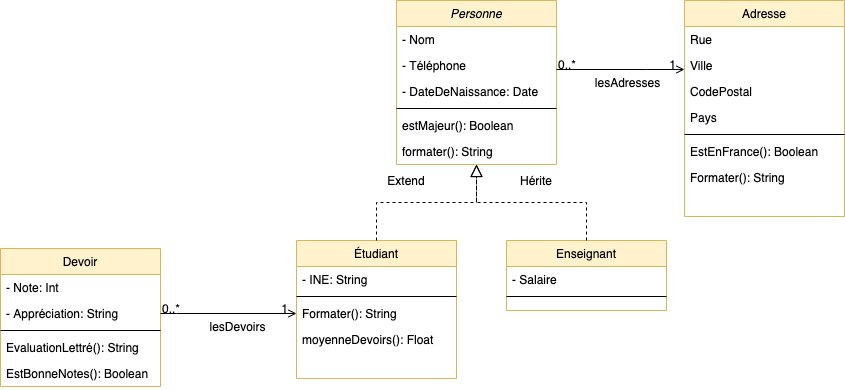
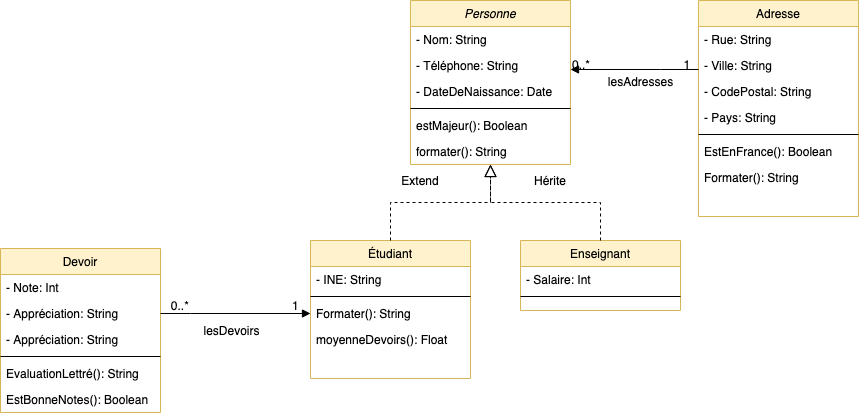
Update UML & description

Changed region(s): [[0.4615, 0.0, 1.0, 0.5231], [0.0, 0.5538, 0.5538, 1.0], [0.5846, 0.5538, 0.8, 0.7692]]

diff --git a/cheatsheets/poo/README.md b/cheatsheets/poo/README.md
@@ -259,6 +259,14 @@ Permet de regrouper des listes d'objets.
 
 ![Représentation UML](./res/collections-uml.png)
 
+En modélisation, la fleche signife un lien entre les deux classes. En l'occurence, dans le cas des collections nous aurons :
+
+- Le nom « de la collection » qui va contenir les objets.
+- Le nombre minimum & maximum.
+- Exemple, **1** étudiant possède plusieurs devoir.
+
+Fonctionnellement, nous allons donc avoir dans l'étudiant collection d'objet du type devoirs. Celle-ci sera nommée **lesDevoirs**. **lesDevoirs** sera une propriété de la classe Étudiant.
+
 ### Déclaration
 
 En PHP:
